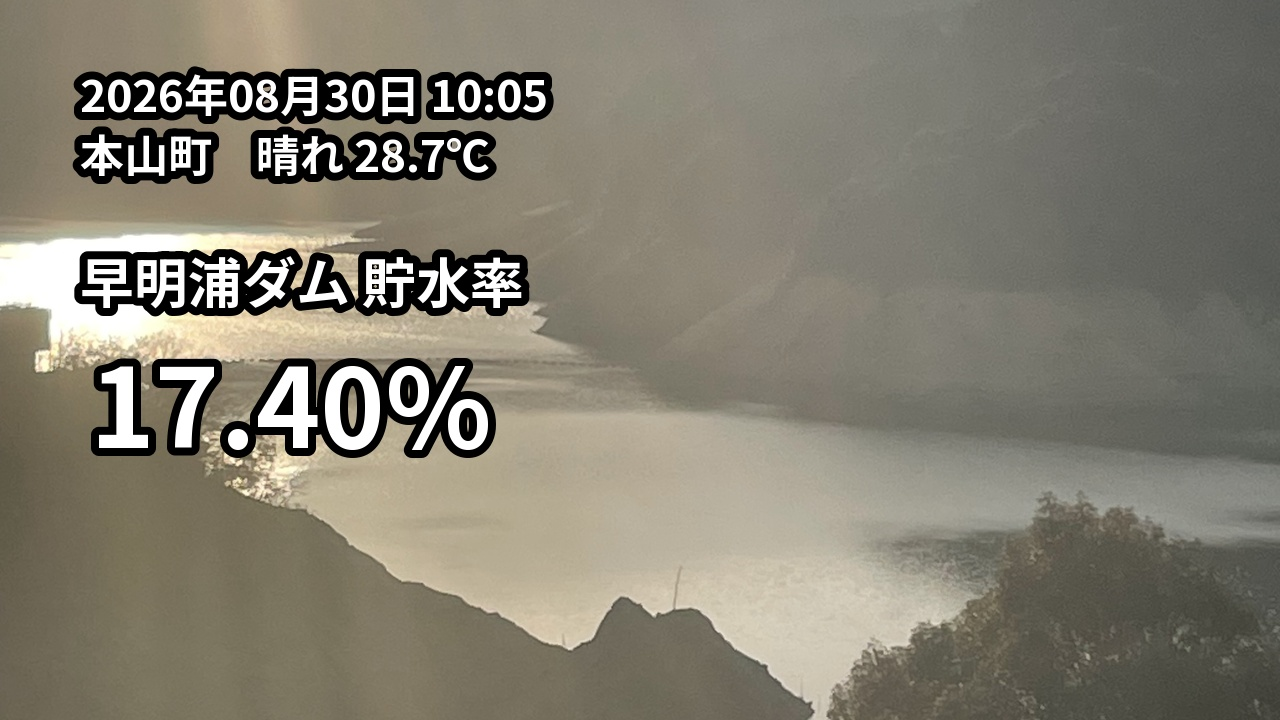
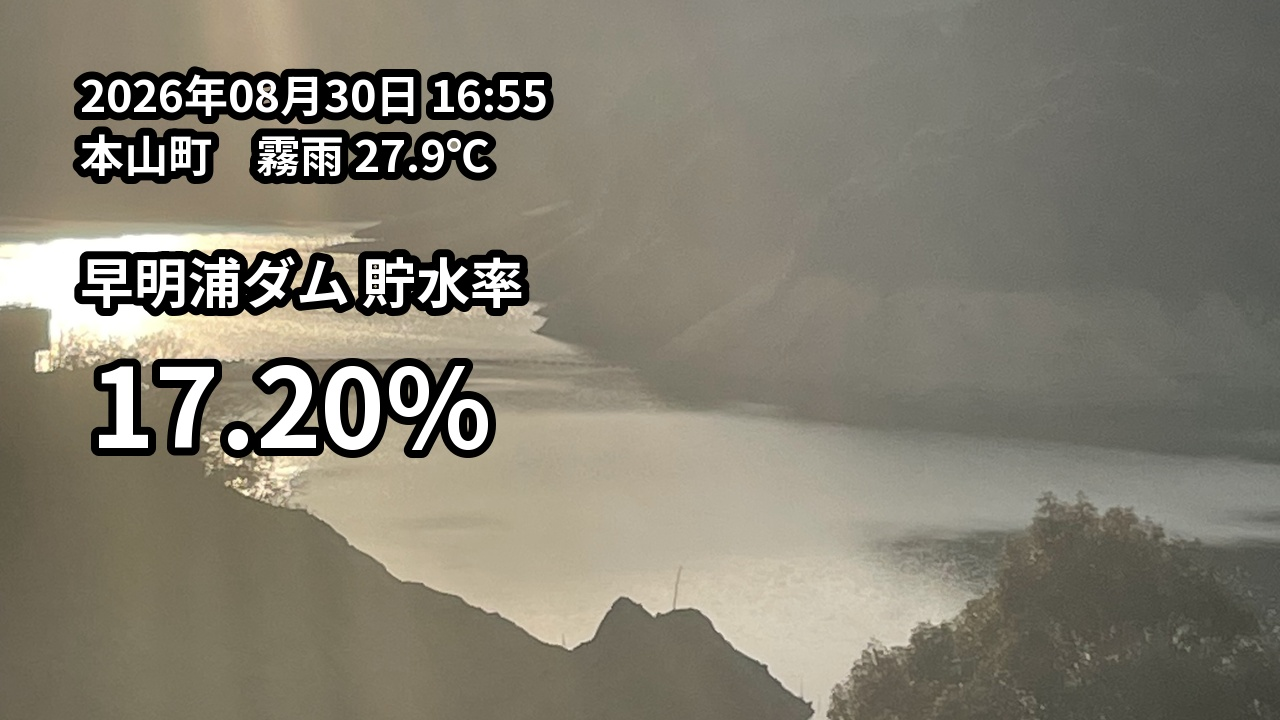
Update daily image

Changed region(s): [[0.1875, 0.1833, 0.375, 0.275], [0.1875, 0.4889, 0.25, 0.6417], [0.3438, 0.0917, 0.4062, 0.1528]]

diff --git a/index.html b/index.html
@@ -10,6 +10,6 @@
   </style>
 </head>
 <body>
-  <img src="result.jpg?v=202608301005" alt="早明浦ダム 貯水率" />
+  <img src="result.jpg?v=202608301655" alt="早明浦ダム 貯水率" />
 </body>
 </html>
